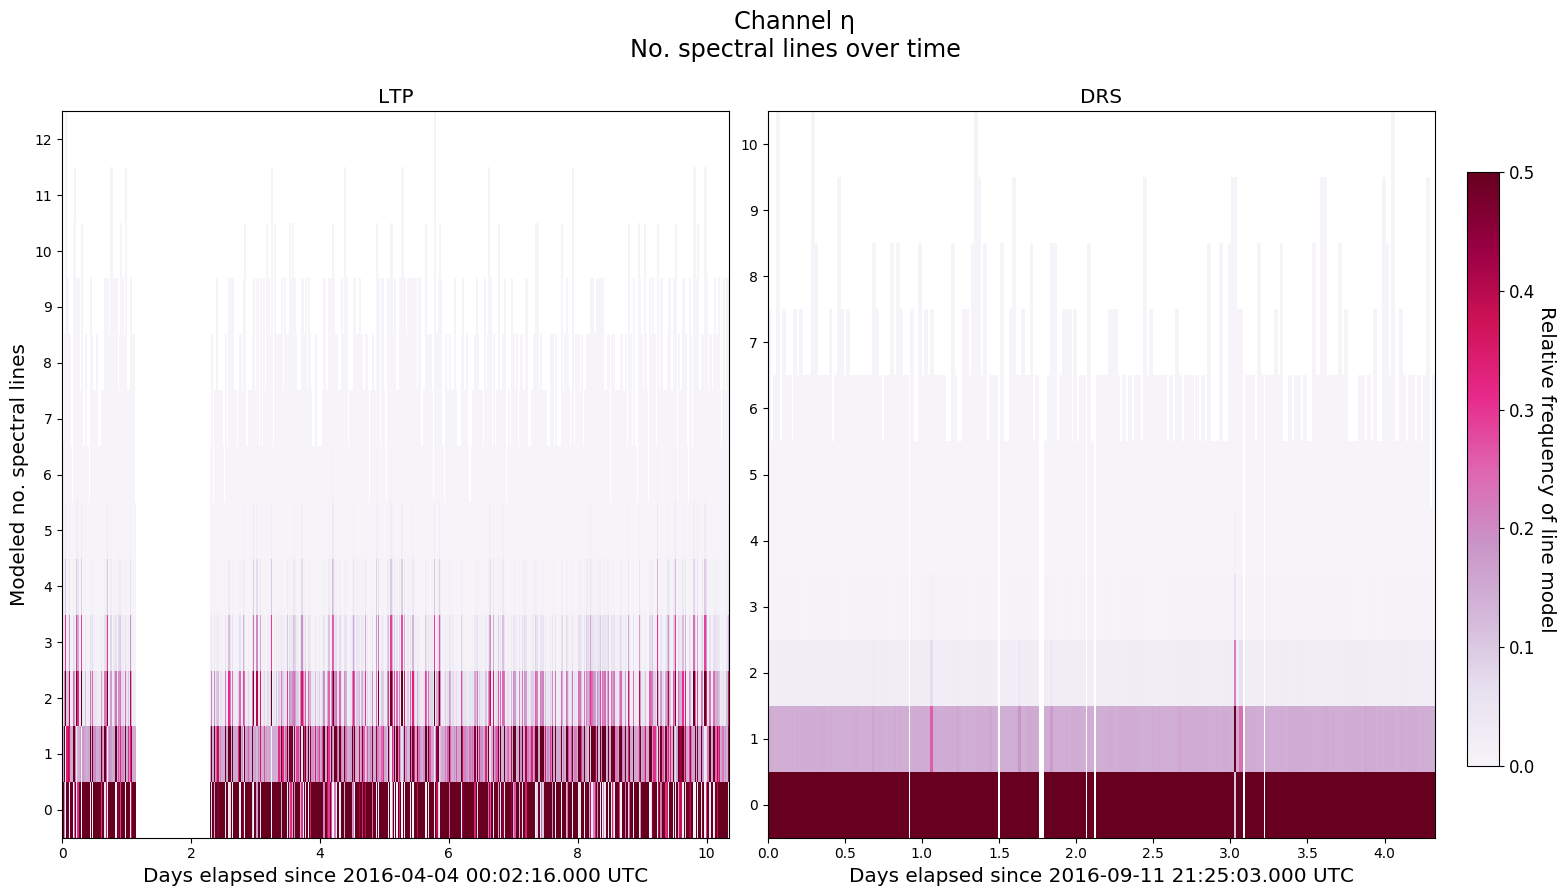
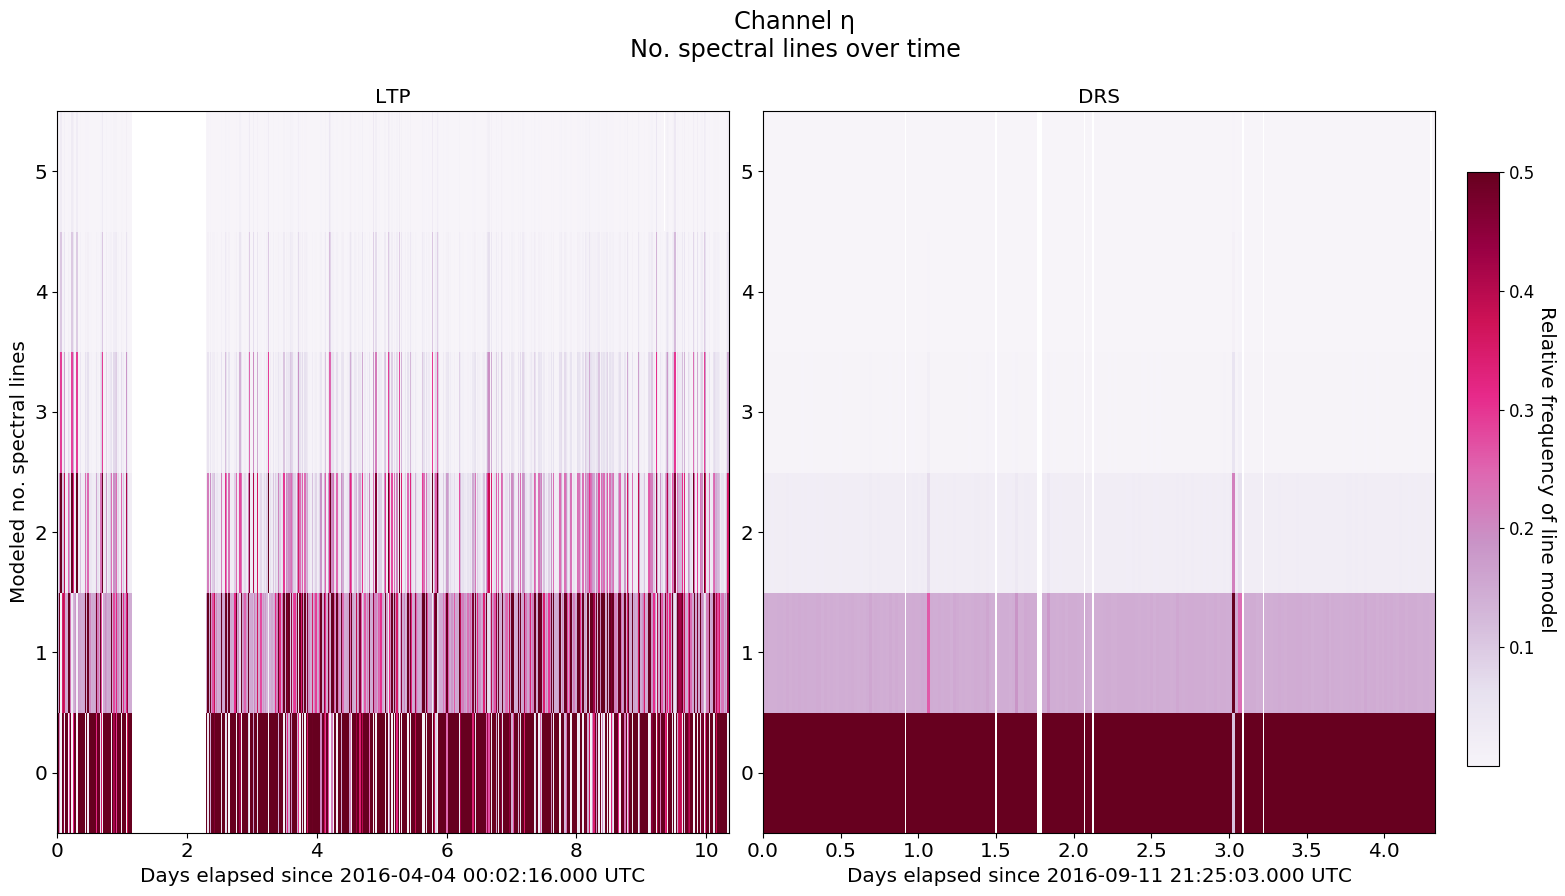
cut off linecount comparisons at n=5

diff --git a/src/plot.py b/src/plot.py
@@ -216,6 +216,7 @@ def compare_colormaps(runs, channel, plot_file=None, show=False):
             cmap=cm.get_cmap('coolwarm'), vlims=(-1,1),
             center=0.0, bar=False
         )
+        ax.tick_params(labelsize='x-large')
         # Only label y axis on left most plot
         if i==0:
             ax.set_ylabel('Frequency (Hz)', fontsize='x-large')
@@ -511,6 +512,8 @@ def compare_linecounts(runs, channel, plot_file=None, show=False):
         counts.index = pd.Series(run.gps2day(counts.index), name='TIME')
         # Convert counts to fraction of total
         counts = counts / sum(counts.iloc[0].dropna())
+        # Cut off DataFrame after n=5
+        counts = counts.iloc[:,:6]
         
         # Subplots
         ax.set_title(f'{run.mode.upper()}', size='x-large')
@@ -524,6 +527,7 @@ def compare_linecounts(runs, channel, plot_file=None, show=False):
         
         # Axis labels
         ax.set_xlabel(f'Days elapsed since {run.start_date} UTC', fontsize='x-large')
+        ax.tick_params(labelsize='x-large')
         # Only label y axis on left most plot
         if i==0:
             ax.set_ylabel('Modeled no. spectral lines', fontsize='x-large')
